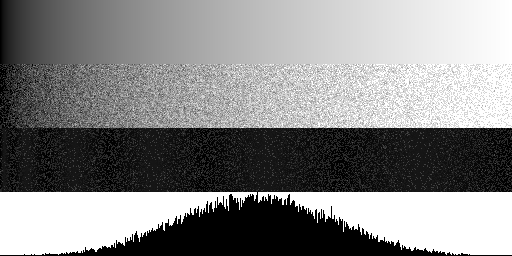
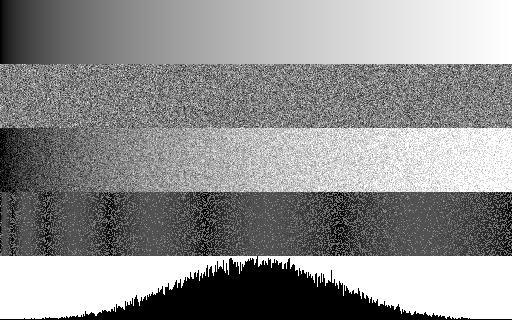
flopping around like a fish on dry land

diff --git a/main.cpp b/main.cpp
@@ -21,6 +21,13 @@ static const size_t c_gradientHeight = 64;
 
 
 
+enum class SRGB
+{
+    Before,
+    After,
+    None
+};
+
 inline std::seed_seq& GetRNGSeed()
 {
 #if DETERMINISTIC()
@@ -118,7 +125,7 @@ float Quantize(float value, size_t quantizationLevels)
 }
 
 template <typename LAMBDA>
-void DoTest(const char* fileName, std::vector<float> gradient, float randMin, float randMax, bool sRGBBeforeDither, const LAMBDA& lambda)
+void DoTest(const char* fileName, std::vector<float> gradient, float randMin, float randMax, SRGB sRGB, const LAMBDA& lambda)
 {
     std::vector<float> noise(c_gradientWidth*c_gradientHeight);
     std::vector<float> gradientDithered(c_gradientWidth*c_gradientHeight);
@@ -128,7 +135,7 @@ void DoTest(const char* fileName, std::vector<float> gradient, float randMin, fl
 
     size_t quantizationLevels = 6;
 
-    if (sRGBBeforeDither)
+    if (sRGB == SRGB::Before)
         gradient = LinearTosRGB(gradient);
 
     for (size_t iy = 0; iy < c_gradientHeight; ++iy)
@@ -169,19 +176,21 @@ void DoTest(const char* fileName, std::vector<float> gradient, float randMin, fl
         }
     }
 
-    if (!sRGBBeforeDither)
+    // TODO: if we are supposed to sRGB after, we also need to sRGB the gradientDithered i think?
+    if (sRGB == SRGB::After)
     {
         gradient = LinearTosRGB(gradient);
+        gradientDithered = LinearTosRGB(gradientDithered);
     }
 
     // TODO: which of these images needs to be converted from linear to sRGB? They may be conditional too. think about em!
 
     std::vector<float> outImage = gradient;
-    //AppendImageVertical(outImage, noise);
+    AppendImageVertical(outImage, noise);
     AppendImageVertical(outImage, gradientDithered);
     AppendImageVertical(outImage, LinearTosRGB(gradientError));
     AppendImageVertical(outImage, LinearTosRGB(gradientHistogram));
-    SaveImage(fileName, outImage, c_gradientWidth, c_gradientHeight * 4);
+    SaveImage(fileName, outImage, c_gradientWidth, c_gradientHeight * 5);
 }
 
 // https://www.shadertoy.com/view/4t2SDh
@@ -204,13 +213,13 @@ int main(int argc, char** argv)
     }
 
     // naked quantization tests
-    DoTest("out_none.png", gradient, 0.0f, 1.0f, true,
+    DoTest("out_none.png", gradient, 0.0f, 1.0f, SRGB::Before,
         [](size_t ix, size_t iy)
         {
             return 0.0f;
         }
     );
-    DoTest("out_round.png", gradient, 0.0f, 1.0f, true,
+    DoTest("out_round.png", gradient, 0.0f, 1.0f, SRGB::Before,
         [](size_t ix, size_t iy)
         {
             return 0.5f;
@@ -218,7 +227,7 @@ int main(int argc, char** argv)
     );
 
     // uniform white noise test
-    DoTest("out_white_1.png", gradient, 0.0f, 1.0f, true,
+    DoTest("out_white_1.png", gradient, 0.0f, 1.0f, SRGB::Before,
         [] (size_t ix, size_t iy)
         {
             static std::mt19937 rng(GetRNGSeed());
@@ -228,7 +237,7 @@ int main(int argc, char** argv)
     );
 
     // triangular white noise test, made by combining two white noise values
-    DoTest("out_white_2.png", gradient, -0.5f, 1.5f, true,
+    DoTest("out_white_2.png", gradient, -0.5f, 1.5f, SRGB::Before,
         [] (size_t ix, size_t iy)
         {
             static std::mt19937 rng(GetRNGSeed());
@@ -238,7 +247,7 @@ int main(int argc, char** argv)
     );
 
     // triangular white noise test, made by reshaping a single white noise value
-    DoTest("out_white_2_reshape.png", gradient, -0.5f, 1.5f, true,
+    DoTest("out_white_2_reshape_sbefore.png", gradient, -0.5f, 1.5f, SRGB::Before,
         [] (size_t ix, size_t iy)
         {
             static std::mt19937 rng(GetRNGSeed());
@@ -249,7 +258,7 @@ int main(int argc, char** argv)
 
     // triangular white noise test, made by reshaping a single white noise value
     // Dithering before sRGB (bad!)
-    DoTest("out_white_2_reshape_linear.png", gradient, -0.5f, 1.5f, false,
+    DoTest("out_white_2_reshape_safter.png", gradient, -0.5f, 1.5f, SRGB::After,
         [](size_t ix, size_t iy)
         {
             static std::mt19937 rng(GetRNGSeed());
@@ -258,8 +267,19 @@ int main(int argc, char** argv)
         }
     );
 
+    // triangular white noise test, made by reshaping a single white noise value
+    // no sRGB
+    DoTest("out_white_2_reshape_snone.png", gradient, -0.5f, 1.5f, SRGB::None,
+        [](size_t ix, size_t iy)
+    {
+        static std::mt19937 rng(GetRNGSeed());
+        static std::uniform_real_distribution<float> dist;
+        return ReshapeUniformToTriangle(dist(rng));
+    }
+    );
+
     // gaussian-ish white noise test, made by combining 4 white noise values
-    DoTest("out_white_4.png", gradient, -1.5f, 2.5f, true,
+    DoTest("out_white_4.png", gradient, -1.5f, 2.5f, SRGB::Before,
         [] (size_t ix, size_t iy)
         {
             static std::mt19937 rng(GetRNGSeed());
@@ -269,7 +289,7 @@ int main(int argc, char** argv)
     );
 
     // gaussian-ish white noise test, made by combining 8 white noise values
-    DoTest("out_white_8.png", gradient, -3.5f, 4.5f, true,
+    DoTest("out_white_8.png", gradient, -3.5f, 4.5f, SRGB::Before,
         [] (size_t ix, size_t iy)
         {
             static std::mt19937 rng(GetRNGSeed());
@@ -279,7 +299,7 @@ int main(int argc, char** argv)
     );
 
     // gaussian-ish white noise test, made by combining 16 white noise values
-    DoTest("out_white_16.png", gradient, -7.5f, 8.5f, true,
+    DoTest("out_white_16.png", gradient, -7.5f, 8.5f, SRGB::Before,
         [](size_t ix, size_t iy)
     {
         static std::mt19937 rng(GetRNGSeed());
@@ -297,7 +317,7 @@ int main(int argc, char** argv)
         uint8* bnb = stbi_load("BlueNoise64_B.png", &w, &h, &c, 4);
 
         // uniform blue noise test
-        DoTest("out_blue_1.png", gradient, 0.0f, 1.0f, true,
+        DoTest("out_blue_1.png", gradient, 0.0f, 1.0f, SRGB::Before,
             [=] (size_t ix, size_t iy)
             {
                 ix = ix % w;
@@ -307,7 +327,7 @@ int main(int argc, char** argv)
         );
 
         // triangular blue noise test, made by combining two blue noise values
-        DoTest("out_blue_2.png", gradient, -0.5f, 1.5f, true,
+        DoTest("out_blue_2.png", gradient, -0.5f, 1.5f, SRGB::Before,
             [=] (size_t ix, size_t iy)
             {
                 ix = ix % w;
@@ -319,7 +339,7 @@ int main(int argc, char** argv)
         );
 
         // triangular blue noise test, made by reshaping a single blue noise value
-        DoTest("out_blue_2_reshape.png", gradient, -0.5f, 1.5f, true,
+        DoTest("out_blue_2_reshape_sbefore.png", gradient, -0.5f, 1.5f, SRGB::Before,
             [=](size_t ix, size_t iy)
             {
                 ix = ix % w;
@@ -331,7 +351,19 @@ int main(int argc, char** argv)
 
         // triangular blue noise test, made by reshaping a single blue noise value
         // Dithering before sRGB (bad!)
-        DoTest("out_blue_2_reshape_linear.png", gradient, -0.5f, 1.5f, false,
+        DoTest("out_blue_2_reshape_safter.png", gradient, -0.5f, 1.5f, SRGB::After,
+            [=](size_t ix, size_t iy)
+            {
+                ix = ix % w;
+                iy = iy % h;
+                float value = float(bna[(iy*w + ix) * 4]) / 255.0f;
+                return ReshapeUniformToTriangle(value);
+            }
+        );
+
+        // triangular blue noise test, made by reshaping a single blue noise value
+        // No sRGB
+        DoTest("out_blue_2_reshape_snone.png", gradient, -0.5f, 1.5f, SRGB::None,
             [=](size_t ix, size_t iy)
             {
                 ix = ix % w;
@@ -378,8 +410,11 @@ The problem is you need to dither AFTER sRGB. Show the difference to show how ba
 Notes:
 * working in float because we need to dither in linear color space.
 * find "inside" that talks about triangular distributed noise
+ * this http://loopit.dk/banding_in_games.pdf#page=33
  * page 54 here. there's a link to a paper too. https://www.gdcvault.com/play/1023002/Low-Complexity-High-Fidelity-INSIDE
  * paper: https://uwspace.uwaterloo.ca/bitstream/handle/10012/3867/thesis.pdf;jsessionid=74681FAF2CA22E754C673E9A1E6957EC?sequence=1
+ * also this: http://gpuopen.com/wp-content/uploads/2016/03/GdcVdrLottes.pdf#page=83
+
 * link to last blog post about noise color being independent of distribution?
 * "The error resulting from a triangularly distributed noise is independent of the signal."
 * when quantizing for eg 3 levels, you can quantize to 0/3, 1/3, 2/3.  OR can quantize to 0/2, 1/2, 2/2.  This is doing the first way because it's better for dithering due to last bucket. As bucket count goes up, the choice matters less.
